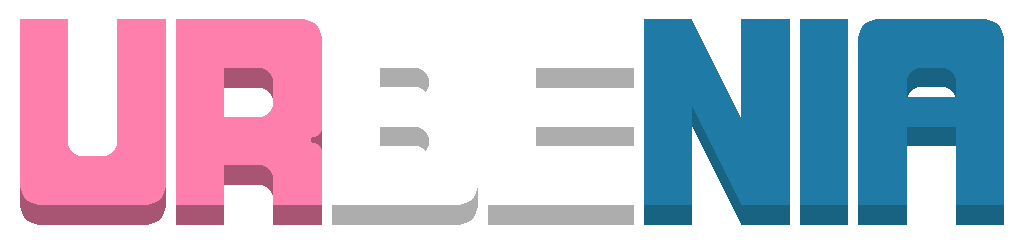
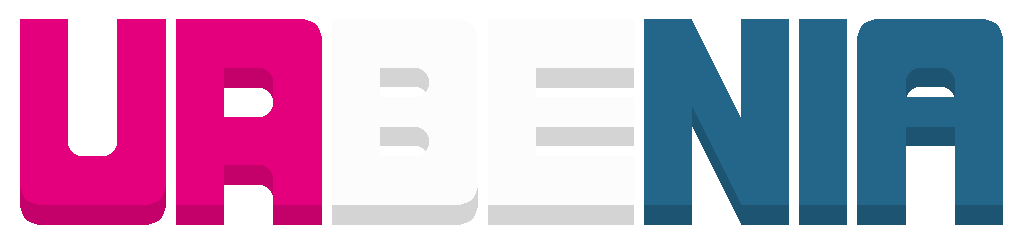
Actualización de Colores

diff --git a/gobierno/fichasTecnicas/fichasTecnicas.html b/gobierno/fichasTecnicas/fichasTecnicas.html
@@ -68,7 +68,6 @@
 		<a href="fichas/Cígos.html"><div class="elemFila"> Cígos </div></a>
 		<a href="fichas/Modías.html"><div class="elemFila"> Modías </div></a>
 		<a href="fichas/Mungos.html"><div class="elemFila"> Mungos </div></a>
-		<a href="fichas/Pelesées.html"><div class="elemFila"> Pelesées  </div></a>
 		<a href="fichas/Ultiones.html"><div class="elemFila"> Ultiones </div></a>
 
 <!--    Menú en Nahuatl
